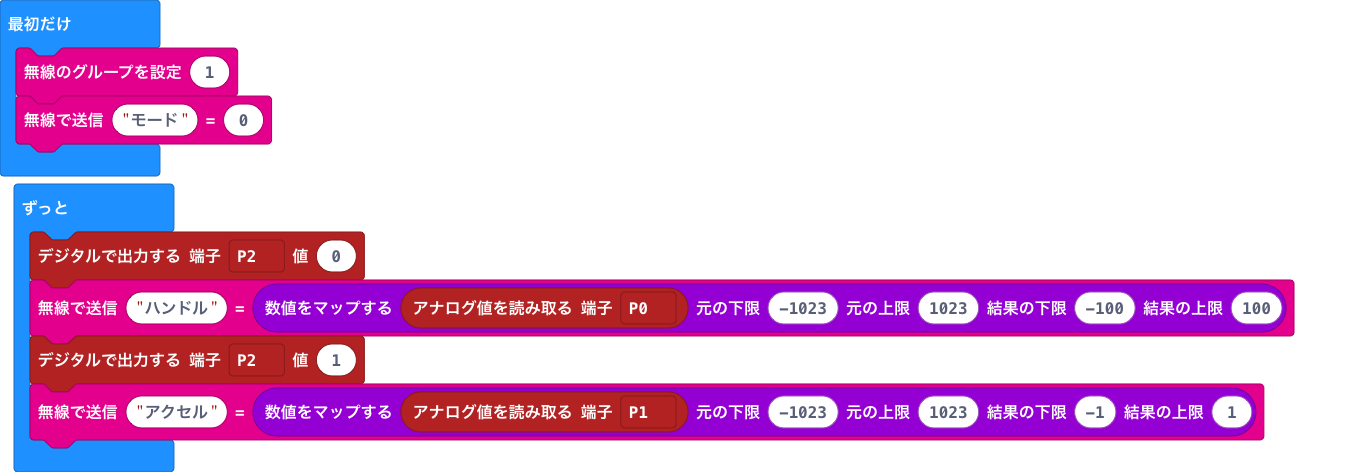
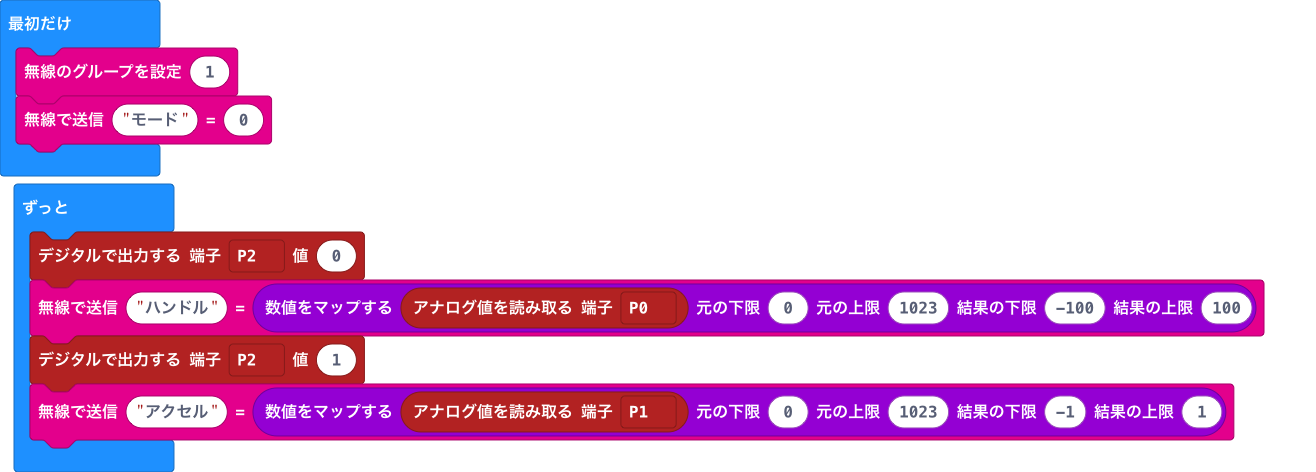
更新 main.blocks, main.ts

diff --git a/main.ts b/main.ts
@@ -2,7 +2,7 @@ radio.setGroup(1)
 radio.sendValue("モード", 0)
 basic.forever(function () {
     pins.digitalWritePin(DigitalPin.P2, 0)
-    radio.sendValue("ハンドル", Math.map(pins.analogReadPin(AnalogPin.P0), -1023, 1023, -100, 100))
+    radio.sendValue("ハンドル", Math.map(pins.analogReadPin(AnalogPin.P0), 0, 1023, -100, 100))
     pins.digitalWritePin(DigitalPin.P2, 1)
-    radio.sendValue("アクセル", Math.map(pins.analogReadPin(AnalogPin.P1), -1023, 1023, -1, 1))
+    radio.sendValue("アクセル", Math.map(pins.analogReadPin(AnalogPin.P1), 0, 1023, -1, 1))
 })
